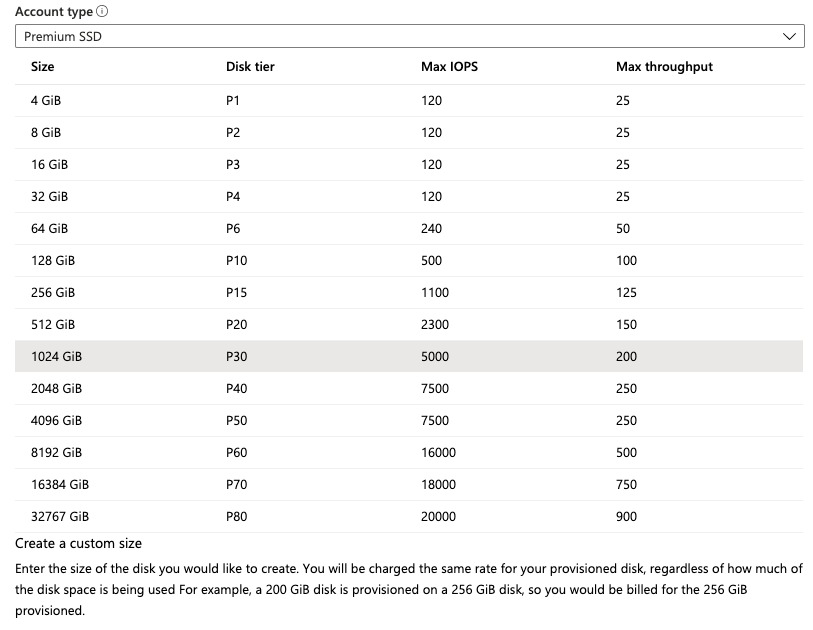
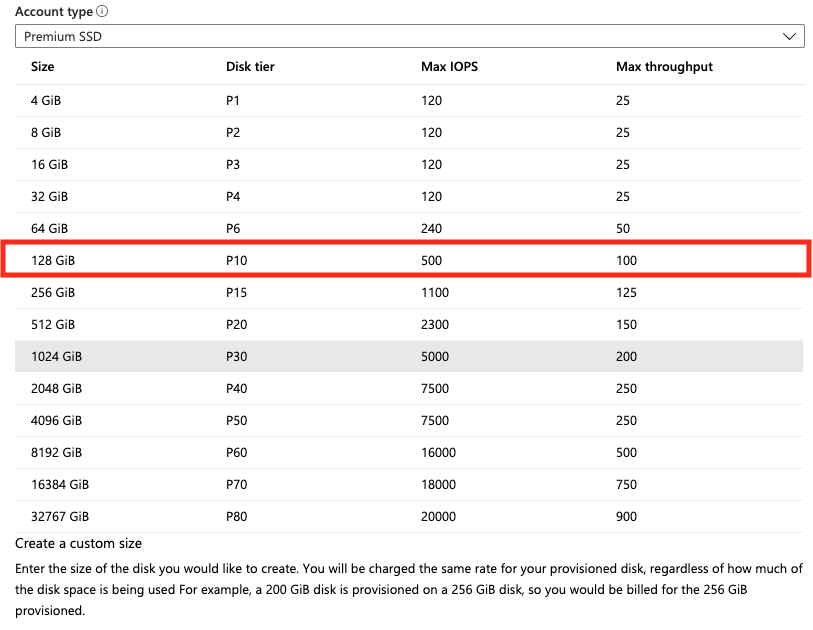
clarity, highlight

Changed region(s): [[0.0, 0.3619, 1.0, 0.4524]]

diff --git a/docs/part1-introduction-and-problem-description.md b/docs/part1-introduction-and-problem-description.md
@@ -236,13 +236,13 @@ nature if this issue, burst limits will also be exceeded.
 The disk devices / drives map to specific disk classes or tiers in Azure and
 other IaaS providers. On Azure, the default is Premium SSD storage so we can
 look at the size (128 GiB) and map that to the
-**P10** disk tier with a Max IOPS of **500** and a Max Throuput of 200 MiB/sec.
+**P10** disk tier with a Max IOPS of **500** and a Max Throuput of 100 MiB/sec.
 
 ![Disk Sizes Trimmed](/images/disk-sizes-trimmed.png "p10 disk tier")
 
 **This means, using our example DS3_v2 SKU (VM Max IOPS 12800) has an OS disk
-Max IOPS of 500 (P10 Class Max IOPS 500)**. You can not exceed these values
-without VM / Storage level hosts pushing back at the VM layer.
+Max IOPS of 500 (P10 Class Max IOPS 500) not 12800**. You can not exceed these
+values without VM / Storage level hosts pushing back at the VM layer.
 
 Here is the issue visualized:
 
